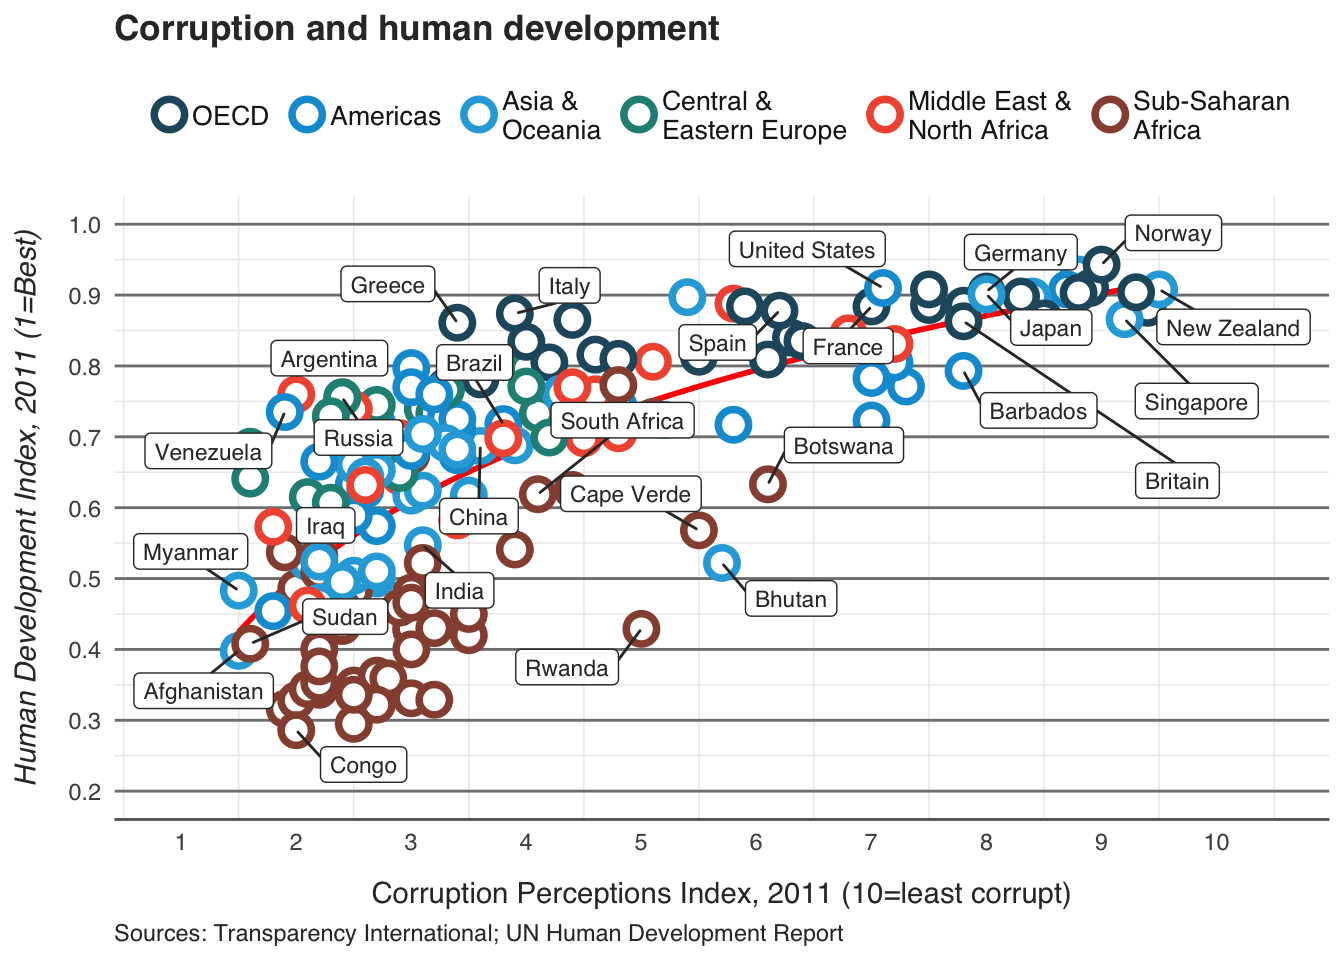
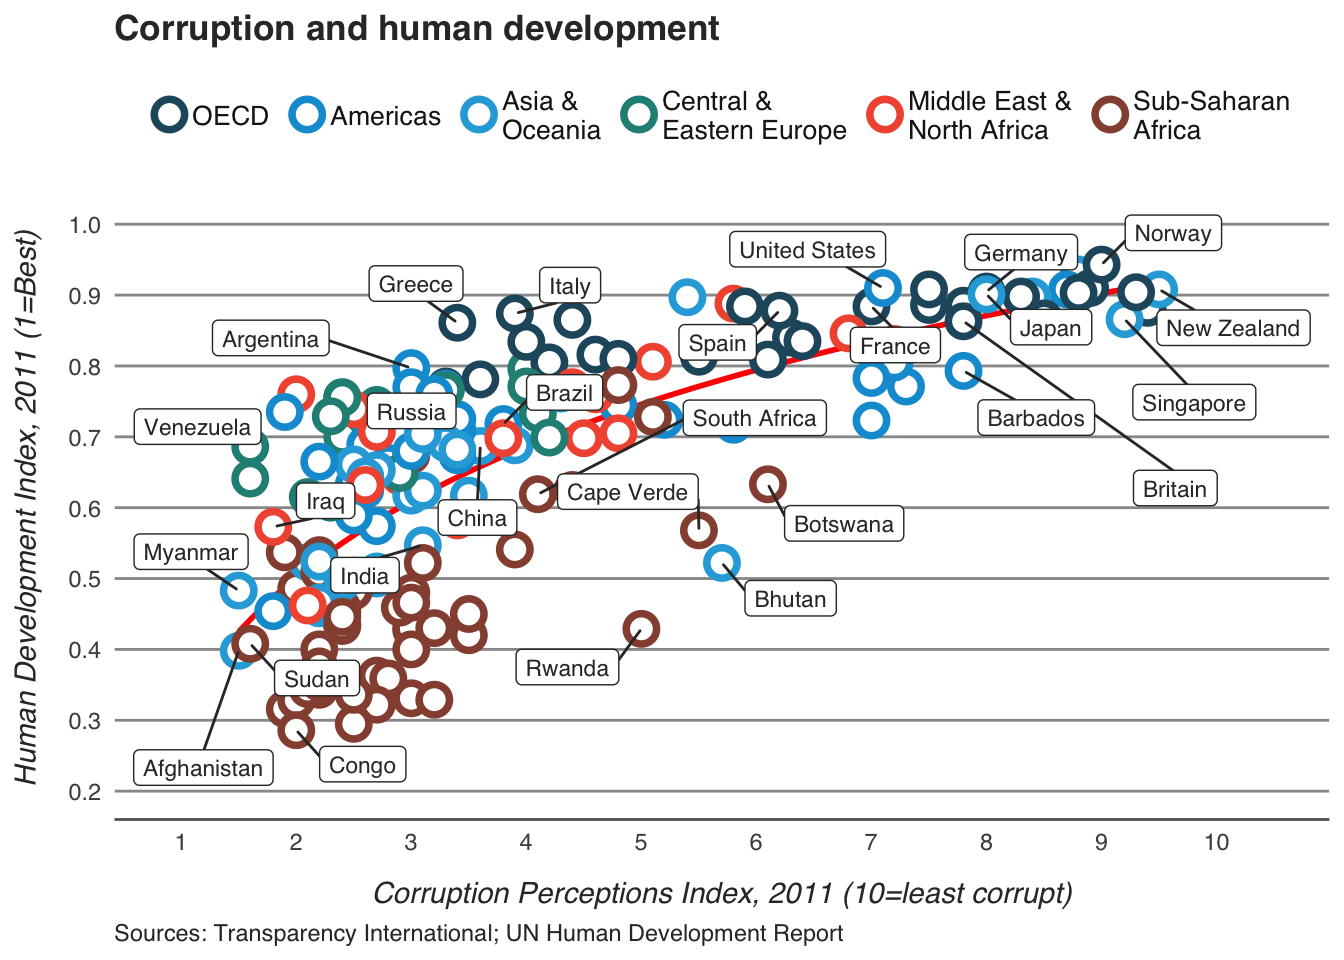
Improve color scale clarity

diff --git a/docs/materials/w11_publication/economist_recreation.html b/docs/materials/w11_publication/economist_recreation.html
@@ -513,39 +513,43 @@ window.Quarto = {
 <section id="step-6-add-title-and-format-axes" class="level2">
 <h2 class="anchored" data-anchor-id="step-6-add-title-and-format-axes">Step 6: Add title and format axes</h2>
 <p>The next step is to add the title and format the axes. We do that using the <code>scales</code> system in ggplot2.</p>
+<p>Here is the color palette the Economist seems to be using:</p>
 <div class="cell">
 <details open="" class="code-fold">
 <summary>Code</summary>
-<div class="code-copy-outer-scaffold"><div class="sourceCode cell-code" id="cb12"><pre class="sourceCode r code-with-copy"><code class="sourceCode r"><span id="cb12-1"><a href="#cb12-1" aria-hidden="true" tabindex="-1"></a>pc5 <span class="ot">&lt;-</span> pc4 <span class="sc">+</span></span>
-<span id="cb12-2"><a href="#cb12-2" aria-hidden="true" tabindex="-1"></a>  <span class="fu">scale_x_continuous</span>(</span>
-<span id="cb12-3"><a href="#cb12-3" aria-hidden="true" tabindex="-1"></a>    <span class="at">name =</span> <span class="st">"Corruption Perceptions Index, 2011 (10=least corrupt)"</span>,</span>
-<span id="cb12-4"><a href="#cb12-4" aria-hidden="true" tabindex="-1"></a>    <span class="at">limits =</span> <span class="fu">c</span>(.<span class="dv">9</span>, <span class="fl">10.5</span>),</span>
-<span id="cb12-5"><a href="#cb12-5" aria-hidden="true" tabindex="-1"></a>    <span class="at">breaks =</span> <span class="dv">1</span><span class="sc">:</span><span class="dv">10</span></span>
-<span id="cb12-6"><a href="#cb12-6" aria-hidden="true" tabindex="-1"></a>  ) <span class="sc">+</span></span>
-<span id="cb12-7"><a href="#cb12-7" aria-hidden="true" tabindex="-1"></a>  <span class="fu">scale_y_continuous</span>(</span>
-<span id="cb12-8"><a href="#cb12-8" aria-hidden="true" tabindex="-1"></a>    <span class="at">name =</span> <span class="st">"Human Development Index, 2011 (1=Best)"</span>,</span>
-<span id="cb12-9"><a href="#cb12-9" aria-hidden="true" tabindex="-1"></a>    <span class="at">limits =</span> <span class="fu">c</span>(<span class="fl">0.2</span>, <span class="fl">1.0</span>),</span>
-<span id="cb12-10"><a href="#cb12-10" aria-hidden="true" tabindex="-1"></a>    <span class="at">breaks =</span> <span class="fu">seq</span>(<span class="fl">0.2</span>, <span class="fl">1.0</span>, <span class="at">by =</span> <span class="fl">0.1</span>)</span>
-<span id="cb12-11"><a href="#cb12-11" aria-hidden="true" tabindex="-1"></a>  ) <span class="sc">+</span></span>
-<span id="cb12-12"><a href="#cb12-12" aria-hidden="true" tabindex="-1"></a>  <span class="fu">scale_color_manual</span>(</span>
-<span id="cb12-13"><a href="#cb12-13" aria-hidden="true" tabindex="-1"></a>    <span class="at">name =</span> <span class="st">""</span>,</span>
-<span id="cb12-14"><a href="#cb12-14" aria-hidden="true" tabindex="-1"></a>    <span class="at">values =</span> <span class="fu">c</span>(</span>
-<span id="cb12-15"><a href="#cb12-15" aria-hidden="true" tabindex="-1"></a>      <span class="st">"#24576D"</span>,</span>
-<span id="cb12-16"><a href="#cb12-16" aria-hidden="true" tabindex="-1"></a>      <span class="st">"#099DD7"</span>,</span>
-<span id="cb12-17"><a href="#cb12-17" aria-hidden="true" tabindex="-1"></a>      <span class="st">"#28AADC"</span>,</span>
-<span id="cb12-18"><a href="#cb12-18" aria-hidden="true" tabindex="-1"></a>      <span class="st">"#248E84"</span>,</span>
-<span id="cb12-19"><a href="#cb12-19" aria-hidden="true" tabindex="-1"></a>      <span class="st">"#F2583F"</span>,</span>
-<span id="cb12-20"><a href="#cb12-20" aria-hidden="true" tabindex="-1"></a>      <span class="st">"#96503F"</span></span>
-<span id="cb12-21"><a href="#cb12-21" aria-hidden="true" tabindex="-1"></a>    )</span>
-<span id="cb12-22"><a href="#cb12-22" aria-hidden="true" tabindex="-1"></a>  ) <span class="sc">+</span></span>
-<span id="cb12-23"><a href="#cb12-23" aria-hidden="true" tabindex="-1"></a>  <span class="fu">ggtitle</span>(<span class="st">"Corruption and human development"</span>)</span>
-<span id="cb12-24"><a href="#cb12-24" aria-hidden="true" tabindex="-1"></a></span>
-<span id="cb12-25"><a href="#cb12-25" aria-hidden="true" tabindex="-1"></a><span class="fu">plot</span>(pc5)</span></code></pre></div><button title="Copy to Clipboard" class="code-copy-button"><i class="bi"></i></button></div>
+<div class="code-copy-outer-scaffold"><div class="sourceCode cell-code" id="cb12"><pre class="sourceCode r code-with-copy"><code class="sourceCode r"><span id="cb12-1"><a href="#cb12-1" aria-hidden="true" tabindex="-1"></a>economist_palette <span class="ot">&lt;-</span> <span class="fu">c</span>(</span>
+<span id="cb12-2"><a href="#cb12-2" aria-hidden="true" tabindex="-1"></a>  <span class="st">"OECD"</span> <span class="ot">=</span> <span class="st">"#24576D"</span>,</span>
+<span id="cb12-3"><a href="#cb12-3" aria-hidden="true" tabindex="-1"></a>  <span class="st">"Americas"</span> <span class="ot">=</span> <span class="st">"#099DD7"</span>,</span>
+<span id="cb12-4"><a href="#cb12-4" aria-hidden="true" tabindex="-1"></a>  <span class="st">"Asia &amp;</span><span class="sc">\n</span><span class="st">Oceania"</span> <span class="ot">=</span> <span class="st">"#28AADC"</span>,</span>
+<span id="cb12-5"><a href="#cb12-5" aria-hidden="true" tabindex="-1"></a>  <span class="st">"Central &amp;</span><span class="sc">\n</span><span class="st">Eastern Europe"</span> <span class="ot">=</span> <span class="st">"#248E84"</span>,</span>
+<span id="cb12-6"><a href="#cb12-6" aria-hidden="true" tabindex="-1"></a>  <span class="st">"Middle East &amp;</span><span class="sc">\n</span><span class="st">North Africa"</span> <span class="ot">=</span> <span class="st">"#F2583F"</span>,</span>
+<span id="cb12-7"><a href="#cb12-7" aria-hidden="true" tabindex="-1"></a>  <span class="st">"Sub-Saharan</span><span class="sc">\n</span><span class="st">Africa"</span> <span class="ot">=</span> <span class="st">"#96503F"</span></span>
+<span id="cb12-8"><a href="#cb12-8" aria-hidden="true" tabindex="-1"></a>)</span></code></pre></div><button title="Copy to Clipboard" class="code-copy-button"><i class="bi"></i></button></div>
+</details>
+</div>
+<div class="cell">
+<details open="" class="code-fold">
+<summary>Code</summary>
+<div class="code-copy-outer-scaffold"><div class="sourceCode cell-code" id="cb13"><pre class="sourceCode r code-with-copy"><code class="sourceCode r"><span id="cb13-1"><a href="#cb13-1" aria-hidden="true" tabindex="-1"></a>pc5 <span class="ot">&lt;-</span> pc4 <span class="sc">+</span></span>
+<span id="cb13-2"><a href="#cb13-2" aria-hidden="true" tabindex="-1"></a>  <span class="fu">scale_x_continuous</span>(</span>
+<span id="cb13-3"><a href="#cb13-3" aria-hidden="true" tabindex="-1"></a>    <span class="at">name =</span> <span class="st">"Corruption Perceptions Index, 2011 (10=least corrupt)"</span>,</span>
+<span id="cb13-4"><a href="#cb13-4" aria-hidden="true" tabindex="-1"></a>    <span class="at">limits =</span> <span class="fu">c</span>(.<span class="dv">9</span>, <span class="fl">10.5</span>),</span>
+<span id="cb13-5"><a href="#cb13-5" aria-hidden="true" tabindex="-1"></a>    <span class="at">breaks =</span> <span class="dv">1</span><span class="sc">:</span><span class="dv">10</span></span>
+<span id="cb13-6"><a href="#cb13-6" aria-hidden="true" tabindex="-1"></a>  ) <span class="sc">+</span></span>
+<span id="cb13-7"><a href="#cb13-7" aria-hidden="true" tabindex="-1"></a>  <span class="fu">scale_y_continuous</span>(</span>
+<span id="cb13-8"><a href="#cb13-8" aria-hidden="true" tabindex="-1"></a>    <span class="at">name =</span> <span class="st">"Human Development Index, 2011 (1=Best)"</span>,</span>
+<span id="cb13-9"><a href="#cb13-9" aria-hidden="true" tabindex="-1"></a>    <span class="at">limits =</span> <span class="fu">c</span>(<span class="fl">0.2</span>, <span class="fl">1.0</span>),</span>
+<span id="cb13-10"><a href="#cb13-10" aria-hidden="true" tabindex="-1"></a>    <span class="at">breaks =</span> <span class="fu">seq</span>(<span class="fl">0.2</span>, <span class="fl">1.0</span>, <span class="at">by =</span> <span class="fl">0.1</span>)</span>
+<span id="cb13-11"><a href="#cb13-11" aria-hidden="true" tabindex="-1"></a>  ) <span class="sc">+</span></span>
+<span id="cb13-12"><a href="#cb13-12" aria-hidden="true" tabindex="-1"></a>  <span class="fu">scale_color_manual</span>(<span class="at">name =</span> <span class="st">""</span>, <span class="at">values =</span> economist_palette) <span class="sc">+</span></span>
+<span id="cb13-13"><a href="#cb13-13" aria-hidden="true" tabindex="-1"></a>  <span class="fu">ggtitle</span>(<span class="st">"Corruption and human development"</span>)</span>
+<span id="cb13-14"><a href="#cb13-14" aria-hidden="true" tabindex="-1"></a></span>
+<span id="cb13-15"><a href="#cb13-15" aria-hidden="true" tabindex="-1"></a><span class="fu">plot</span>(pc5)</span></code></pre></div><button title="Copy to Clipboard" class="code-copy-button"><i class="bi"></i></button></div>
 </details>
 <div class="cell-output-display">
 <div>
 <figure class="figure">
-<p><img src="economist_recreation_files/figure-html/unnamed-chunk-11-1.png" class="img-fluid figure-img" width="672"></p>
+<p><img src="economist_recreation_files/figure-html/unnamed-chunk-12-1.png" class="img-fluid figure-img" width="672"></p>
 </figure>
 </div>
 </div>
@@ -557,28 +561,30 @@ window.Quarto = {
 <div class="cell">
 <details open="" class="code-fold">
 <summary>Code</summary>
-<div class="code-copy-outer-scaffold"><div class="sourceCode cell-code" id="cb13"><pre class="sourceCode r code-with-copy"><code class="sourceCode r"><span id="cb13-1"><a href="#cb13-1" aria-hidden="true" tabindex="-1"></a>pc6 <span class="ot">&lt;-</span> pc5 <span class="sc">+</span></span>
-<span id="cb13-2"><a href="#cb13-2" aria-hidden="true" tabindex="-1"></a>  <span class="fu">labs</span>(<span class="at">caption =</span> <span class="st">"Sources: Transparency International; UN Human Development Report"</span>) <span class="sc">+</span></span>
-<span id="cb13-3"><a href="#cb13-3" aria-hidden="true" tabindex="-1"></a>  <span class="fu">theme_minimal</span>() <span class="sc">+</span></span>
-<span id="cb13-4"><a href="#cb13-4" aria-hidden="true" tabindex="-1"></a>  <span class="fu">guides</span>(<span class="at">color =</span> <span class="fu">guide_legend</span>(<span class="at">nrow =</span> <span class="dv">1</span>)) <span class="sc">+</span></span>
-<span id="cb13-5"><a href="#cb13-5" aria-hidden="true" tabindex="-1"></a>  <span class="fu">theme</span>(</span>
-<span id="cb13-6"><a href="#cb13-6" aria-hidden="true" tabindex="-1"></a>    <span class="at">text =</span> <span class="fu">element_text</span>(<span class="at">family =</span> <span class="st">"sans"</span>, <span class="at">color =</span> <span class="st">"gray20"</span>),</span>
-<span id="cb13-7"><a href="#cb13-7" aria-hidden="true" tabindex="-1"></a>    <span class="at">legend.position =</span> <span class="st">"top"</span>,</span>
-<span id="cb13-8"><a href="#cb13-8" aria-hidden="true" tabindex="-1"></a>    <span class="at">legend.direction =</span> <span class="st">"horizontal"</span>,</span>
-<span id="cb13-9"><a href="#cb13-9" aria-hidden="true" tabindex="-1"></a>    <span class="at">legend.justification =</span> <span class="fl">0.1</span>,</span>
-<span id="cb13-10"><a href="#cb13-10" aria-hidden="true" tabindex="-1"></a>    <span class="at">legend.text =</span> <span class="fu">element_text</span>(<span class="at">size =</span> <span class="dv">10</span>, <span class="at">color =</span> <span class="st">"gray10"</span>, <span class="at">margin =</span> <span class="fu">margin</span>(<span class="at">t =</span> <span class="dv">4</span>, <span class="at">b =</span> <span class="dv">4</span>)),</span>
-<span id="cb13-11"><a href="#cb13-11" aria-hidden="true" tabindex="-1"></a>    <span class="at">axis.title.x =</span> <span class="fu">element_text</span>(<span class="at">margin =</span> <span class="fu">margin</span>(<span class="at">t =</span> <span class="dv">10</span>)),</span>
-<span id="cb13-12"><a href="#cb13-12" aria-hidden="true" tabindex="-1"></a>    <span class="at">axis.title.y =</span> <span class="fu">element_text</span>(<span class="at">margin =</span> <span class="fu">margin</span>(<span class="at">r =</span> <span class="dv">10</span>), <span class="at">face =</span> <span class="st">"italic"</span>),</span>
-<span id="cb13-13"><a href="#cb13-13" aria-hidden="true" tabindex="-1"></a>    <span class="at">axis.ticks.y =</span> <span class="fu">element_blank</span>(),</span>
-<span id="cb13-14"><a href="#cb13-14" aria-hidden="true" tabindex="-1"></a>    <span class="at">axis.line =</span> <span class="fu">element_line</span>(<span class="at">color =</span> <span class="st">"gray40"</span>, <span class="at">linewidth =</span> <span class="fl">0.5</span>),</span>
-<span id="cb13-15"><a href="#cb13-15" aria-hidden="true" tabindex="-1"></a>    <span class="at">axis.line.y =</span> <span class="fu">element_blank</span>(),</span>
-<span id="cb13-16"><a href="#cb13-16" aria-hidden="true" tabindex="-1"></a>    <span class="at">panel.grid.major.y =</span> <span class="fu">element_line</span>(<span class="at">color =</span> <span class="st">"gray50"</span>, <span class="at">linewidth =</span> <span class="fl">0.5</span>),</span>
-<span id="cb13-17"><a href="#cb13-17" aria-hidden="true" tabindex="-1"></a>    <span class="at">panel.grid.major.x =</span> <span class="fu">element_blank</span>(),</span>
-<span id="cb13-18"><a href="#cb13-18" aria-hidden="true" tabindex="-1"></a>    <span class="at">plot.caption =</span> <span class="fu">element_text</span>(<span class="at">hjust =</span> <span class="dv">0</span>),</span>
-<span id="cb13-19"><a href="#cb13-19" aria-hidden="true" tabindex="-1"></a>    <span class="at">plot.title =</span> <span class="fu">element_text</span>(<span class="at">face =</span> <span class="st">"bold"</span>)</span>
-<span id="cb13-20"><a href="#cb13-20" aria-hidden="true" tabindex="-1"></a>  )</span>
-<span id="cb13-21"><a href="#cb13-21" aria-hidden="true" tabindex="-1"></a></span>
-<span id="cb13-22"><a href="#cb13-22" aria-hidden="true" tabindex="-1"></a><span class="fu">plot</span>(pc6)</span></code></pre></div><button title="Copy to Clipboard" class="code-copy-button"><i class="bi"></i></button></div>
+<div class="code-copy-outer-scaffold"><div class="sourceCode cell-code" id="cb14"><pre class="sourceCode r code-with-copy"><code class="sourceCode r"><span id="cb14-1"><a href="#cb14-1" aria-hidden="true" tabindex="-1"></a>pc6 <span class="ot">&lt;-</span> pc5 <span class="sc">+</span></span>
+<span id="cb14-2"><a href="#cb14-2" aria-hidden="true" tabindex="-1"></a>  <span class="fu">labs</span>(<span class="at">caption =</span> <span class="st">"Sources: Transparency International; UN Human Development Report"</span>) <span class="sc">+</span></span>
+<span id="cb14-3"><a href="#cb14-3" aria-hidden="true" tabindex="-1"></a>  <span class="fu">theme_minimal</span>() <span class="sc">+</span></span>
+<span id="cb14-4"><a href="#cb14-4" aria-hidden="true" tabindex="-1"></a>  <span class="fu">guides</span>(<span class="at">color =</span> <span class="fu">guide_legend</span>(<span class="at">nrow =</span> <span class="dv">1</span>)) <span class="sc">+</span></span>
+<span id="cb14-5"><a href="#cb14-5" aria-hidden="true" tabindex="-1"></a>  <span class="fu">theme</span>(</span>
+<span id="cb14-6"><a href="#cb14-6" aria-hidden="true" tabindex="-1"></a>    <span class="at">text =</span> <span class="fu">element_text</span>(<span class="at">family =</span> <span class="st">"sans"</span>, <span class="at">color =</span> <span class="st">"gray20"</span>),</span>
+<span id="cb14-7"><a href="#cb14-7" aria-hidden="true" tabindex="-1"></a>    <span class="at">legend.position =</span> <span class="st">"top"</span>,</span>
+<span id="cb14-8"><a href="#cb14-8" aria-hidden="true" tabindex="-1"></a>    <span class="at">legend.direction =</span> <span class="st">"horizontal"</span>,</span>
+<span id="cb14-9"><a href="#cb14-9" aria-hidden="true" tabindex="-1"></a>    <span class="at">legend.justification =</span> <span class="fl">0.1</span>,</span>
+<span id="cb14-10"><a href="#cb14-10" aria-hidden="true" tabindex="-1"></a>    <span class="at">legend.text =</span> <span class="fu">element_text</span>(<span class="at">size =</span> <span class="dv">10</span>, <span class="at">color =</span> <span class="st">"gray10"</span>, <span class="at">margin =</span> <span class="fu">margin</span>(<span class="at">t =</span> <span class="dv">4</span>, <span class="at">b =</span> <span class="dv">4</span>)),</span>
+<span id="cb14-11"><a href="#cb14-11" aria-hidden="true" tabindex="-1"></a>    <span class="at">axis.title.x =</span> <span class="fu">element_text</span>(<span class="at">margin =</span> <span class="fu">margin</span>(<span class="at">t =</span> <span class="dv">10</span>), <span class="at">face =</span> <span class="st">"italic"</span>),</span>
+<span id="cb14-12"><a href="#cb14-12" aria-hidden="true" tabindex="-1"></a>    <span class="at">axis.title.y =</span> <span class="fu">element_text</span>(<span class="at">margin =</span> <span class="fu">margin</span>(<span class="at">r =</span> <span class="dv">10</span>), <span class="at">face =</span> <span class="st">"italic"</span>),</span>
+<span id="cb14-13"><a href="#cb14-13" aria-hidden="true" tabindex="-1"></a>    <span class="at">axis.ticks.y =</span> <span class="fu">element_blank</span>(),</span>
+<span id="cb14-14"><a href="#cb14-14" aria-hidden="true" tabindex="-1"></a>    <span class="at">axis.line =</span> <span class="fu">element_line</span>(<span class="at">color =</span> <span class="st">"gray40"</span>, <span class="at">linewidth =</span> <span class="fl">0.5</span>),</span>
+<span id="cb14-15"><a href="#cb14-15" aria-hidden="true" tabindex="-1"></a>    <span class="at">axis.line.y =</span> <span class="fu">element_blank</span>(),</span>
+<span id="cb14-16"><a href="#cb14-16" aria-hidden="true" tabindex="-1"></a>    <span class="at">panel.grid.major.y =</span> <span class="fu">element_line</span>(<span class="at">color =</span> <span class="st">"gray60"</span>, <span class="at">linewidth =</span> <span class="fl">0.5</span>),</span>
+<span id="cb14-17"><a href="#cb14-17" aria-hidden="true" tabindex="-1"></a>    <span class="at">panel.grid.minor.y =</span> <span class="fu">element_blank</span>(),</span>
+<span id="cb14-18"><a href="#cb14-18" aria-hidden="true" tabindex="-1"></a>    <span class="at">panel.grid.major.x =</span> <span class="fu">element_blank</span>(),</span>
+<span id="cb14-19"><a href="#cb14-19" aria-hidden="true" tabindex="-1"></a>    <span class="at">panel.grid.minor.x =</span> <span class="fu">element_blank</span>(),</span>
+<span id="cb14-20"><a href="#cb14-20" aria-hidden="true" tabindex="-1"></a>    <span class="at">plot.caption =</span> <span class="fu">element_text</span>(<span class="at">hjust =</span> <span class="dv">0</span>),</span>
+<span id="cb14-21"><a href="#cb14-21" aria-hidden="true" tabindex="-1"></a>    <span class="at">plot.title =</span> <span class="fu">element_text</span>(<span class="at">face =</span> <span class="st">"bold"</span>)</span>
+<span id="cb14-22"><a href="#cb14-22" aria-hidden="true" tabindex="-1"></a>  )</span>
+<span id="cb14-23"><a href="#cb14-23" aria-hidden="true" tabindex="-1"></a></span>
+<span id="cb14-24"><a href="#cb14-24" aria-hidden="true" tabindex="-1"></a><span class="fu">plot</span>(pc6)</span></code></pre></div><button title="Copy to Clipboard" class="code-copy-button"><i class="bi"></i></button></div>
 </details>
 <div class="cell-output-display">
 <div>
@@ -595,8 +601,8 @@ window.Quarto = {
 <div class="cell">
 <details open="" class="code-fold">
 <summary>Code</summary>
-<div class="code-copy-outer-scaffold"><div class="sourceCode cell-code" id="cb14"><pre class="sourceCode r code-with-copy"><code class="sourceCode r"><span id="cb14-1"><a href="#cb14-1" aria-hidden="true" tabindex="-1"></a>mR2 <span class="ot">&lt;-</span> <span class="fu">summary</span>(<span class="fu">lm</span>(HDI <span class="sc">~</span> <span class="fu">log</span>(CPI), <span class="at">data =</span> economist_data))<span class="sc">$</span>r.squared</span>
-<span id="cb14-2"><a href="#cb14-2" aria-hidden="true" tabindex="-1"></a><span class="fu">print</span>(mR2)</span></code></pre></div><button title="Copy to Clipboard" class="code-copy-button"><i class="bi"></i></button></div>
+<div class="code-copy-outer-scaffold"><div class="sourceCode cell-code" id="cb15"><pre class="sourceCode r code-with-copy"><code class="sourceCode r"><span id="cb15-1"><a href="#cb15-1" aria-hidden="true" tabindex="-1"></a>mR2 <span class="ot">&lt;-</span> <span class="fu">summary</span>(<span class="fu">lm</span>(HDI <span class="sc">~</span> <span class="fu">log</span>(CPI), <span class="at">data =</span> economist_data))<span class="sc">$</span>r.squared</span>
+<span id="cb15-2"><a href="#cb15-2" aria-hidden="true" tabindex="-1"></a><span class="fu">print</span>(mR2)</span></code></pre></div><button title="Copy to Clipboard" class="code-copy-button"><i class="bi"></i></button></div>
 </details>
 <div class="cell-output cell-output-stdout">
 <pre><code>[1] 0.5212859</code></pre>
@@ -609,20 +615,20 @@ window.Quarto = {
 <div class="cell">
 <details open="" class="code-fold">
 <summary>Code</summary>
-<div class="code-copy-outer-scaffold"><div class="sourceCode cell-code" id="cb16"><pre class="sourceCode r code-with-copy"><code class="sourceCode r"><span id="cb16-1"><a href="#cb16-1" aria-hidden="true" tabindex="-1"></a>final_plot <span class="ot">&lt;-</span> <span class="fu">ggdraw</span>(pc6) <span class="sc">+</span></span>
-<span id="cb16-2"><a href="#cb16-2" aria-hidden="true" tabindex="-1"></a>  <span class="fu">draw_label</span>(</span>
-<span id="cb16-3"><a href="#cb16-3" aria-hidden="true" tabindex="-1"></a>    <span class="fu">bquote</span>(<span class="fu">italic</span>(R)<span class="sc">^</span><span class="dv">2</span> <span class="sc">==</span> .(<span class="fu">round</span>(<span class="dv">100</span> <span class="sc">*</span> mR2)) <span class="sc">*</span> <span class="st">"%"</span>),</span>
-<span id="cb16-4"><a href="#cb16-4" aria-hidden="true" tabindex="-1"></a>    <span class="co"># substitute(paste(italic(R)^2, " = ", r2, "%"), list(r2 = as.integer(mR2 * 100))), #alternative</span></span>
-<span id="cb16-5"><a href="#cb16-5" aria-hidden="true" tabindex="-1"></a>    <span class="at">x =</span> .<span class="dv">9</span>, <span class="at">y =</span> .<span class="dv">97</span></span>
-<span id="cb16-6"><a href="#cb16-6" aria-hidden="true" tabindex="-1"></a>  ) <span class="sc">+</span></span>
-<span id="cb16-7"><a href="#cb16-7" aria-hidden="true" tabindex="-1"></a>  <span class="fu">draw_line</span>(<span class="at">x =</span> <span class="fu">c</span>(.<span class="dv">79</span>, .<span class="dv">835</span>), <span class="at">y =</span> <span class="fu">c</span>(.<span class="dv">965</span>, .<span class="dv">965</span>), <span class="at">color =</span> <span class="st">"red"</span>, <span class="at">linewidth =</span> <span class="fl">1.1</span>)</span>
-<span id="cb16-8"><a href="#cb16-8" aria-hidden="true" tabindex="-1"></a></span>
-<span id="cb16-9"><a href="#cb16-9" aria-hidden="true" tabindex="-1"></a>final_plot</span></code></pre></div><button title="Copy to Clipboard" class="code-copy-button"><i class="bi"></i></button></div>
+<div class="code-copy-outer-scaffold"><div class="sourceCode cell-code" id="cb17"><pre class="sourceCode r code-with-copy"><code class="sourceCode r"><span id="cb17-1"><a href="#cb17-1" aria-hidden="true" tabindex="-1"></a>final_plot <span class="ot">&lt;-</span> <span class="fu">ggdraw</span>(pc6) <span class="sc">+</span></span>
+<span id="cb17-2"><a href="#cb17-2" aria-hidden="true" tabindex="-1"></a>  <span class="fu">draw_label</span>(</span>
+<span id="cb17-3"><a href="#cb17-3" aria-hidden="true" tabindex="-1"></a>    <span class="fu">bquote</span>(<span class="fu">italic</span>(R)<span class="sc">^</span><span class="dv">2</span> <span class="sc">==</span> .(<span class="fu">round</span>(<span class="dv">100</span> <span class="sc">*</span> mR2)) <span class="sc">*</span> <span class="st">"%"</span>),</span>
+<span id="cb17-4"><a href="#cb17-4" aria-hidden="true" tabindex="-1"></a>    <span class="co"># substitute(paste(italic(R)^2, " = ", r2, "%"), list(r2 = as.integer(mR2 * 100))), #alternative</span></span>
+<span id="cb17-5"><a href="#cb17-5" aria-hidden="true" tabindex="-1"></a>    <span class="at">x =</span> .<span class="dv">9</span>, <span class="at">y =</span> .<span class="dv">97</span></span>
+<span id="cb17-6"><a href="#cb17-6" aria-hidden="true" tabindex="-1"></a>  ) <span class="sc">+</span></span>
+<span id="cb17-7"><a href="#cb17-7" aria-hidden="true" tabindex="-1"></a>  <span class="fu">draw_line</span>(<span class="at">x =</span> <span class="fu">c</span>(.<span class="dv">79</span>, .<span class="dv">835</span>), <span class="at">y =</span> <span class="fu">c</span>(.<span class="dv">965</span>, .<span class="dv">965</span>), <span class="at">color =</span> <span class="st">"red"</span>, <span class="at">linewidth =</span> <span class="fl">1.1</span>)</span>
+<span id="cb17-8"><a href="#cb17-8" aria-hidden="true" tabindex="-1"></a></span>
+<span id="cb17-9"><a href="#cb17-9" aria-hidden="true" tabindex="-1"></a>final_plot</span></code></pre></div><button title="Copy to Clipboard" class="code-copy-button"><i class="bi"></i></button></div>
 </details>
 <div class="cell-output-display">
 <div>
 <figure class="figure">
-<p><img src="economist_recreation_files/figure-html/unnamed-chunk-13-1.png" class="img-fluid figure-img" width="672"></p>
+<p><img src="economist_recreation_files/figure-html/unnamed-chunk-14-1.png" class="img-fluid figure-img" width="672"></p>
 </figure>
 </div>
 </div>
